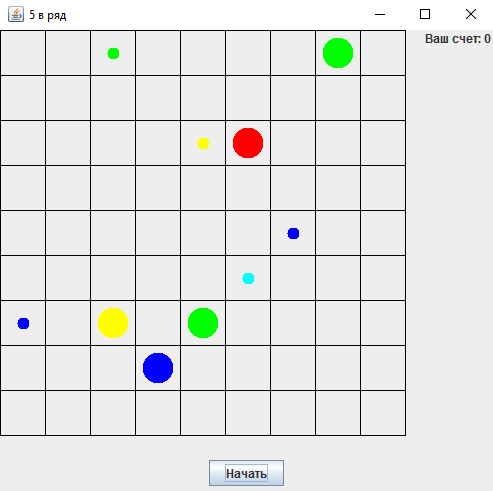
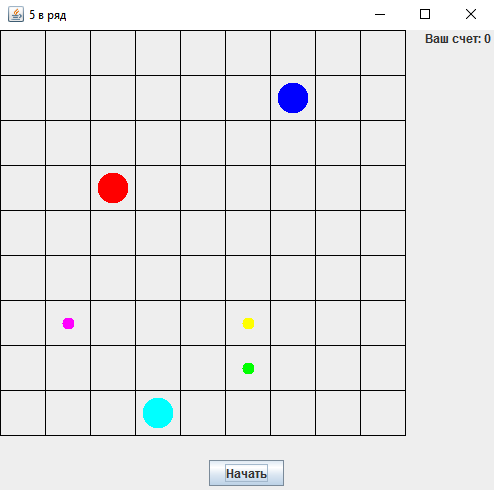
Добавлены новые скриншоты для игры "5 в ряд"

diff --git a/FiveInARow/README.md b/FiveInARow/README.md
@@ -4,15 +4,44 @@
 
 #### Начало игры:
 
+![CC0](https://github.com/Panchenko-Vlad/java-lessons/blob/master/FiveInARow/src/main/java/Screenshots/gui.png)
+
+#### Нажимаем "_Начать_":
+
 ![CC0](https://github.com/Panchenko-Vlad/java-lessons/blob/master/FiveInARow/src/main/java/Screenshots/gui1.png)
 
-#### Перетащили 3 зеленых круга (в верху) к 4-му, осталось перетащить один:
+#### Кликаем на _синий_ шар (он увеличивается и помечается как шар для перемещения) :
 
 ![CC0](https://github.com/Panchenko-Vlad/java-lessons/blob/master/FiveInARow/src/main/java/Screenshots/gui2.png)
 
-#### Перетаскиваем пятый и видим, что 5 зеленых кругов исчезло и к счету начислилось 5 балов:
+#### Переместили его в правый верхний угол:
 
 ![CC0](https://github.com/Panchenko-Vlad/java-lessons/blob/master/FiveInARow/src/main/java/Screenshots/gui3.png)
+
+#### Наконец собрали 4 в ряд и остался последний 5-ый. Переместим _зеленый_ шар:
+
+![CC0](https://github.com/Panchenko-Vlad/java-lessons/blob/master/FiveInARow/src/main/java/Screenshots/gui4.png)
+
+#### Вот и зелёные шары исчезли:
+
+![CC0](https://github.com/Panchenko-Vlad/java-lessons/blob/master/FiveInARow/src/main/java/Screenshots/gui5.png)
+
+#### Теперь попытаемся переместить _синий_ шар к другим _синим_ шарам:
+
+![CC0](https://github.com/Panchenko-Vlad/java-lessons/blob/master/FiveInARow/src/main/java/Screenshots/gui6.png)
+
+#### Перемещение не удалось, так как путь перекрыт другими шарами.
+##### (Выдало подсказку, что данный путь перекрыт) :
+
+![CC0](https://github.com/Panchenko-Vlad/java-lessons/blob/master/FiveInARow/src/main/java/Screenshots/gui7.png)
+
+#### Пока игроку есть куда ходить, окно с проигрышем не выдается:
+
+![CC0](https://github.com/Panchenko-Vlad/java-lessons/blob/master/FiveInARow/src/main/java/Screenshots/gui8.png)
+
+#### Попытались походить ещё один раз и выдало окно о проигрыше:
+
+![CC0](https://github.com/Panchenko-Vlad/java-lessons/blob/master/FiveInARow/src/main/java/Screenshots/gui9.png)
 
 ## Консольная версия игры
 
